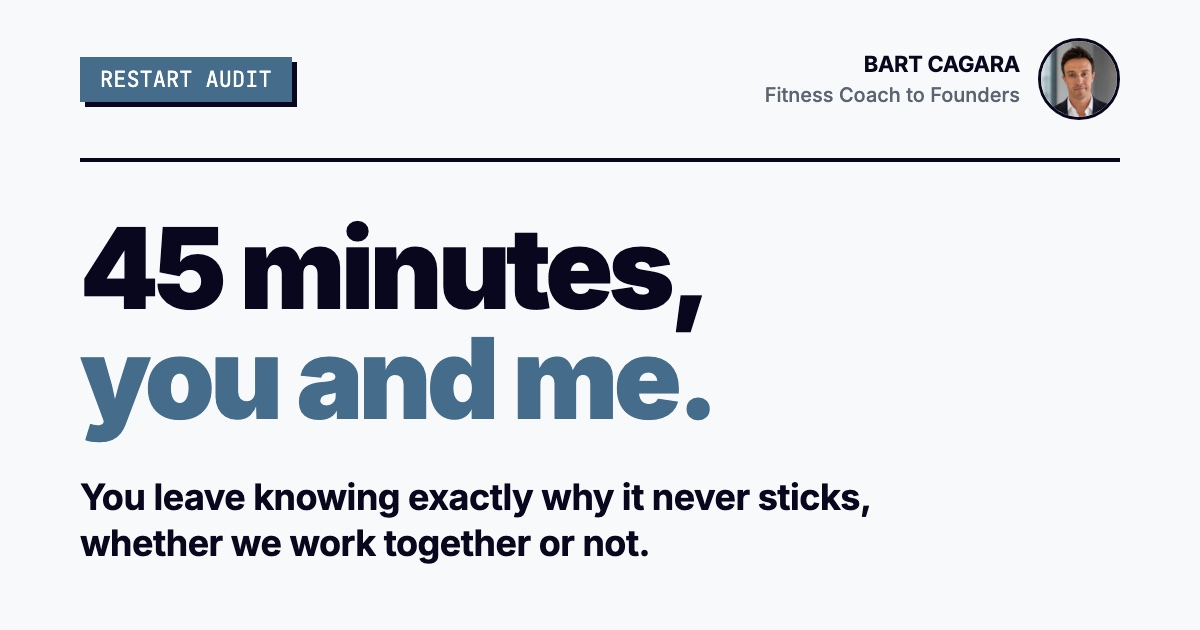
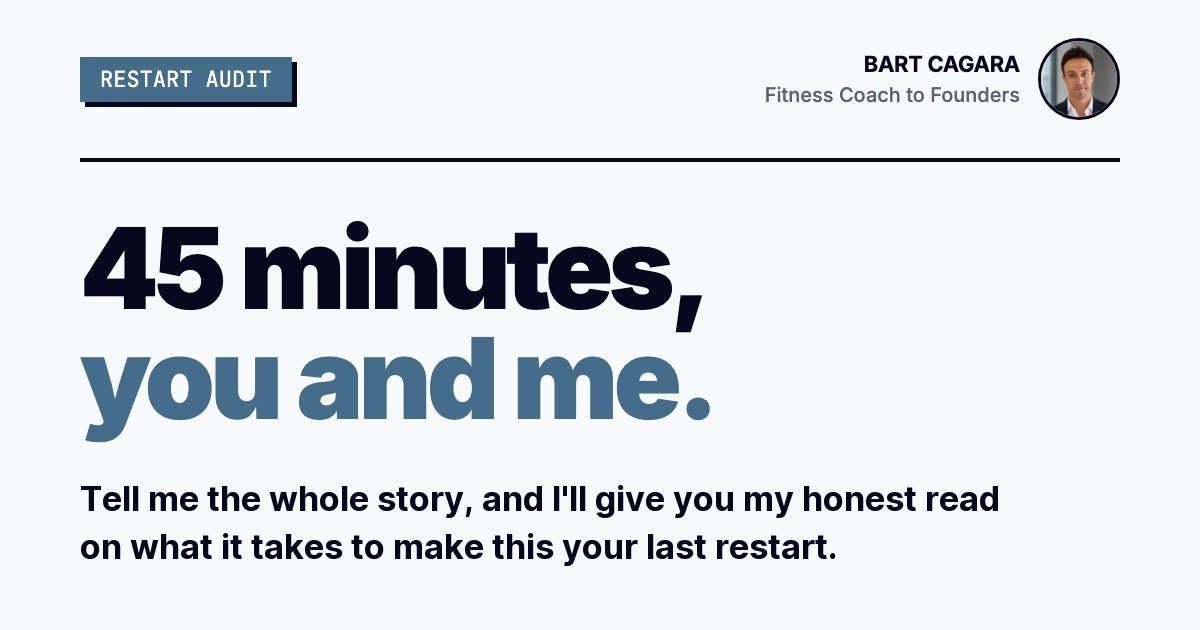
/book: Restart Audit promise in Bart's words (tell me the whole story, an honest read), share card to match
Replaces the retired line 'You leave knowing exactly why it never sticks' and
drops 'For former-athlete founders' (Bart, 20 Nov).

Changed region(s): [[0.0617, 0.754, 0.8325, 0.9048]]

diff --git a/src/app/(landing)/book/page.tsx b/src/app/(landing)/book/page.tsx
@@ -5,7 +5,7 @@ import Link from "next/link";
 
 const TITLE = "Book your Restart Audit | Bart Cagara";
 const DESCRIPTION =
-    "45 minutes, you and me. You leave knowing exactly why it never sticks, whether we work together or not. For former-athlete founders.";
+    "45 minutes with me. Tell me the whole story, and I'll give you my honest read on what it takes to make this your last restart.";
 
 export const metadata: Metadata = {
     title: TITLE,
@@ -28,7 +28,7 @@ export const metadata: Metadata = {
                 url: "/images/og-book.jpg",
                 width: 1200,
                 height: 630,
-                alt: "Restart Audit: 45 minutes, you and me. You leave knowing exactly why it never sticks, whether we work together or not."
+                alt: "Restart Audit: 45 minutes, you and me. Tell me the whole story, and I'll give you my honest read on what it takes to make this your last restart."
             }
         ]
     },
